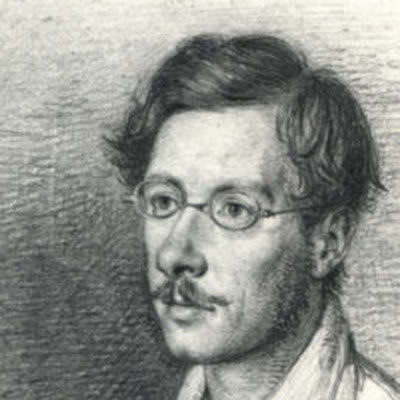
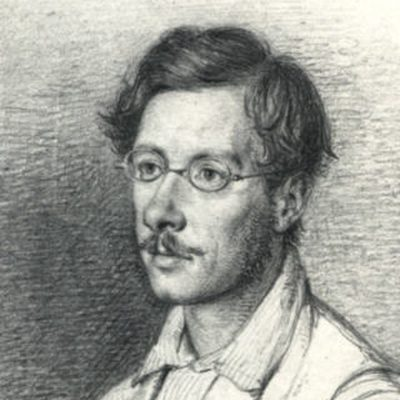
Tilpas square-portrætter til runde ikoner

diff --git a/docs/xml-portraits-format.md b/docs/xml-portraits-format.md
@@ -151,21 +151,37 @@ Regler:
 - Det første fundne `square-src` bruges.
 - `square-src` er en manuelt beskåret kvadratisk fil, fx `p1-square.jpg`, på
   højst 600 × 600 px.
-- Brug en naturlig, klassisk portrætkomposition, hvor hele hovedet er synligt;
-  beskær aldrig hårtop, hage eller ansigt.
-- Lad hovedet fylde ca. 55-65 % af kvadratets højde, og placér øjenlinjen ca.
-  38-42 % nede fra billedets overkant. Øjnene skal ikke ligge i kvadratets
-  geometriske centrum.
-- Bevar normalt ca. 5-10 % luft over håret, og medtag hals, krave og noget af
-  skuldrene, når originalen tillader det.
-- Tving ikke ansigtet til at være vandret centreret. Bevar så vidt muligt
-  originalens naturlige komposition og asymmetri, og tag hensyn til blikretning
-  og kroppens placering.
-- Undgå både meget tætte ansigtsudsnit og udsnit med unødigt meget brystkasse
-  eller tom baggrund.
-- Prioritér i denne rækkefølge: naturligt portrætudsnit, passende hovedstørrelse,
-  synligt hoved/hals/skuldre, øjenlinjens placering og først derefter geometrisk
-  centrering.
+
+## Standard for beskæring af portrætter til runde ikoner
+
+Beskær altid portrættet til et **kvadrat**, men optimer beskæringen til den
+**indskrevne cirkel**, da billedet vises som et rundt ikon.
+
+* **Ansigtet skal være hovedmotivet** og være tydeligt læsbart også i lille
+  størrelse.
+* Beskær **relativt stramt**, så hoved og ansigt fylder godt i cirklen.
+* **Hele ansigtet, hårtop og hage** skal være synlige inden for den indskrevne
+  cirkel.
+* **Øjnene placeres lidt over midten**, typisk ca. **40–45 % nede fra toppen**
+  af kvadratet.
+* Medtag gerne lidt **hals og skuldre**, men undgå så meget torso eller baggrund,
+  at ansigtet virker lille.
+* Bevar en **naturlig portrætkomposition**; motivet behøver ikke være matematisk
+  centreret, hvis en let asymmetri giver et bedre resultat.
+* Prioritér motivets placering efter **cirklens synlige flade**, ikke efter
+  kvadratets hjørner.
+* Undgå beskæringer med **for meget tom baggrund**, **for lille ansigt** eller
+  **for tæt udsnit**, hvor hår eller hage presses mod kanten.
+
+### Prioritet
+
+Ved tvivl prioriteres i denne rækkefølge:
+
+1. Tydeligt og genkendeligt ansigt i rund visning
+2. Hele ansigtet synligt inden for cirklen
+3. Passende hovedstørrelse
+4. Naturlig komposition
+5. Hals og skuldre som sekundære elementer
 
 Eksempel:
 
